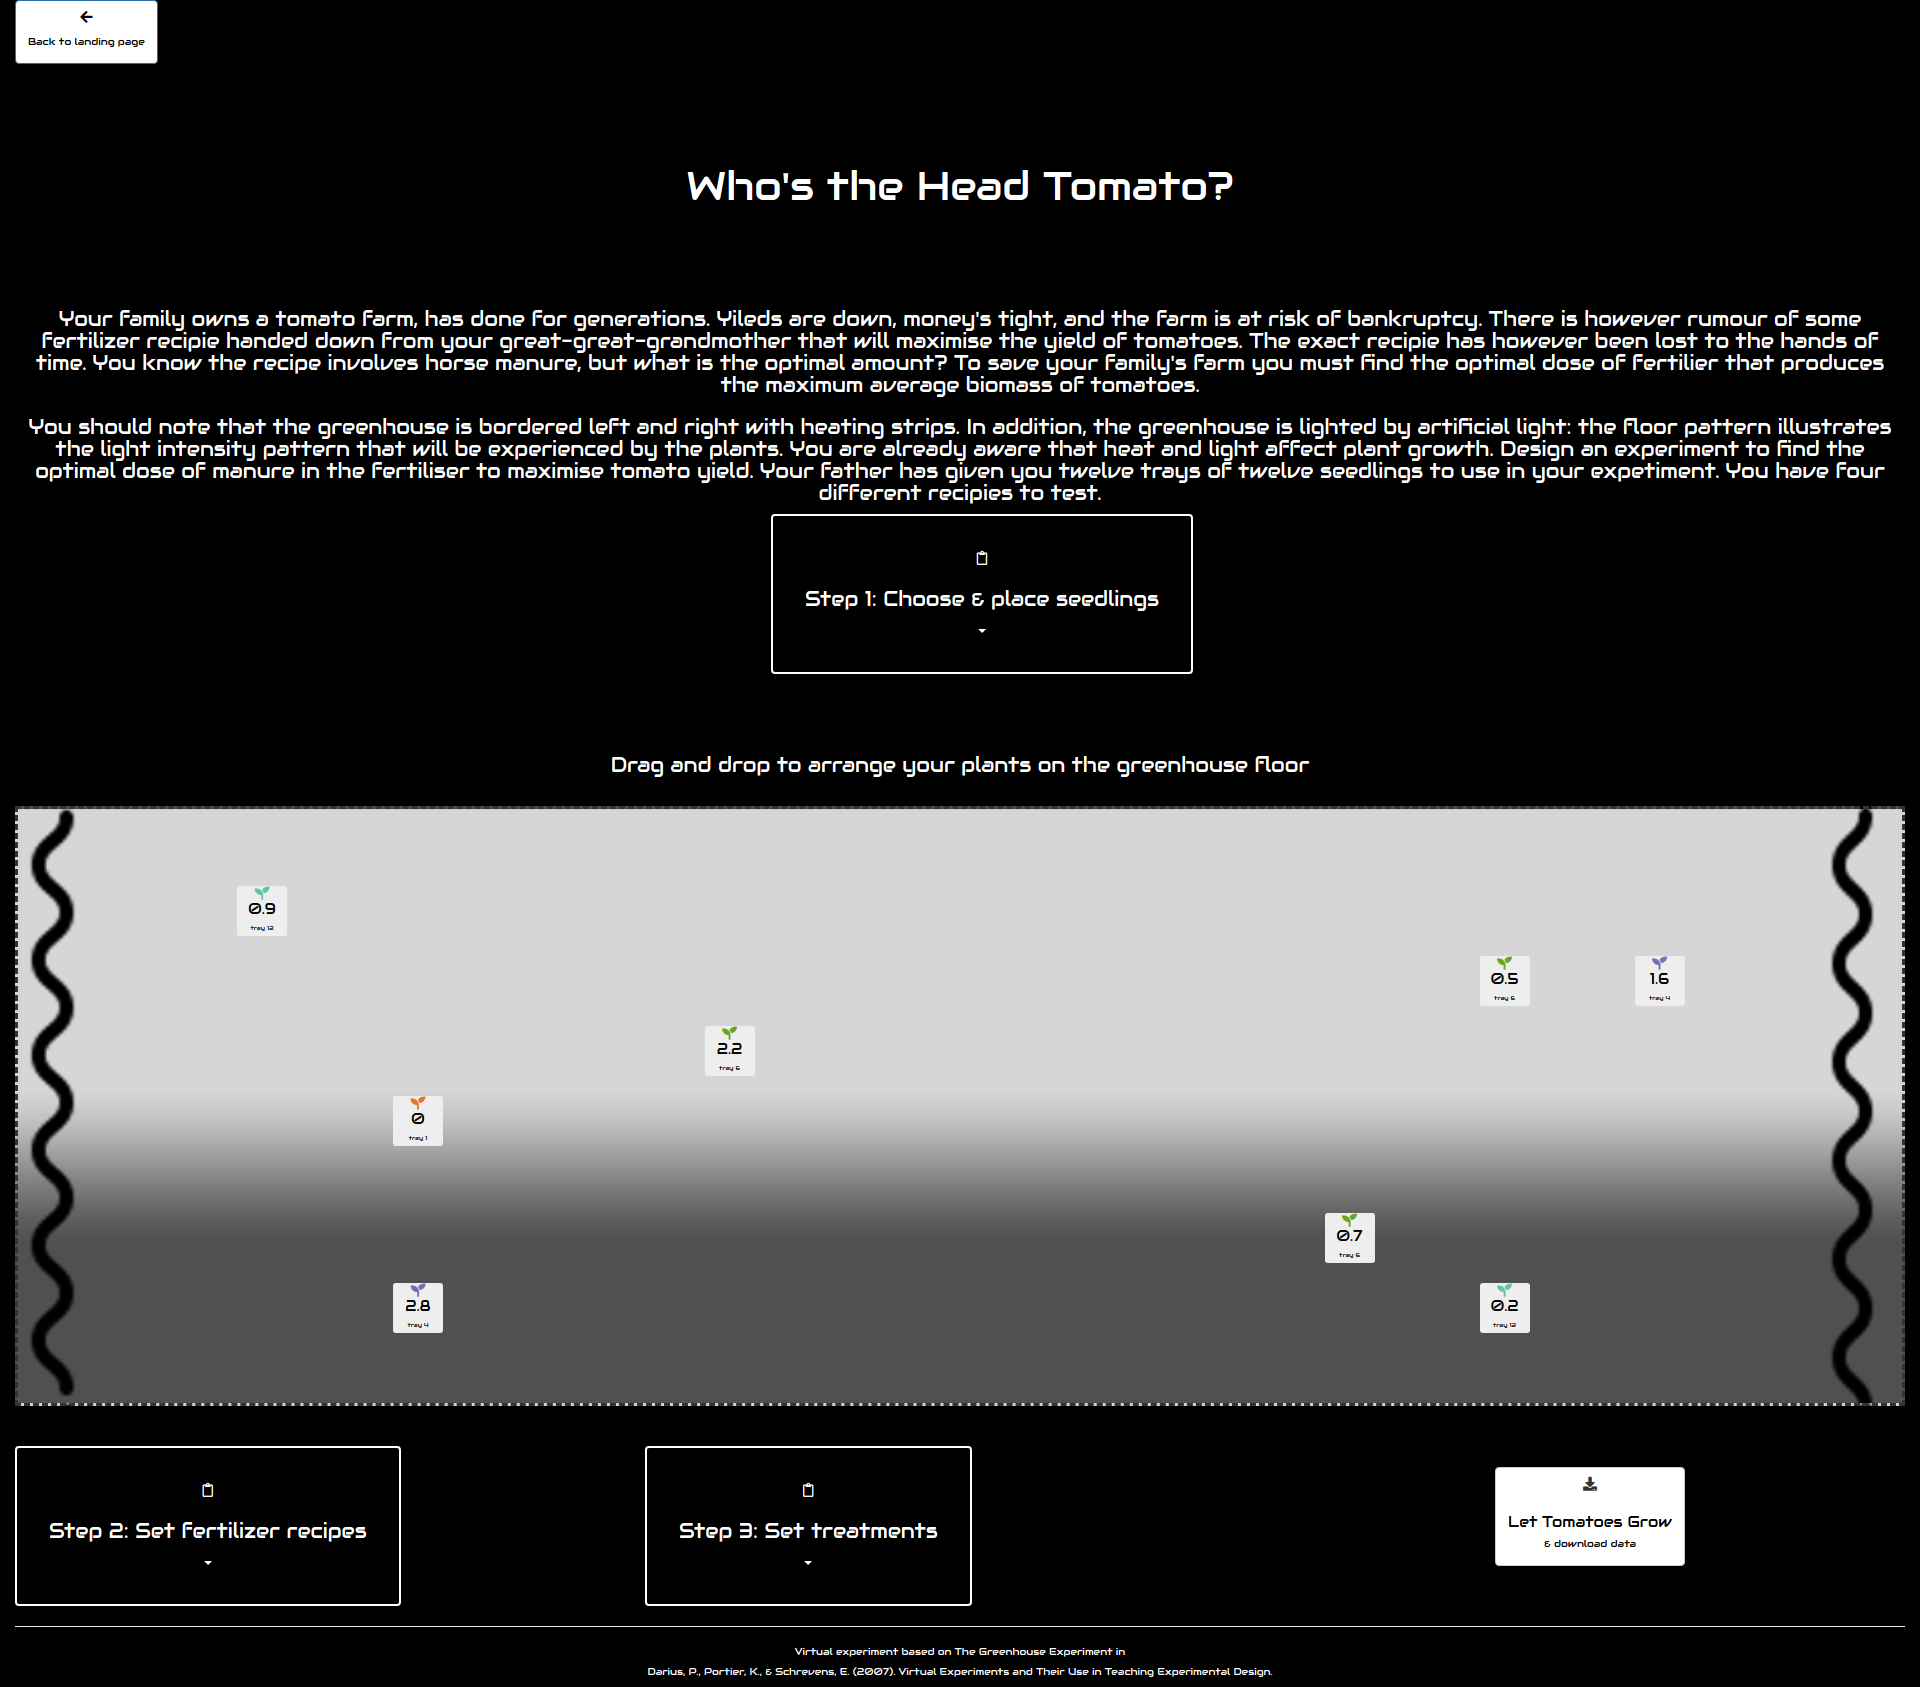
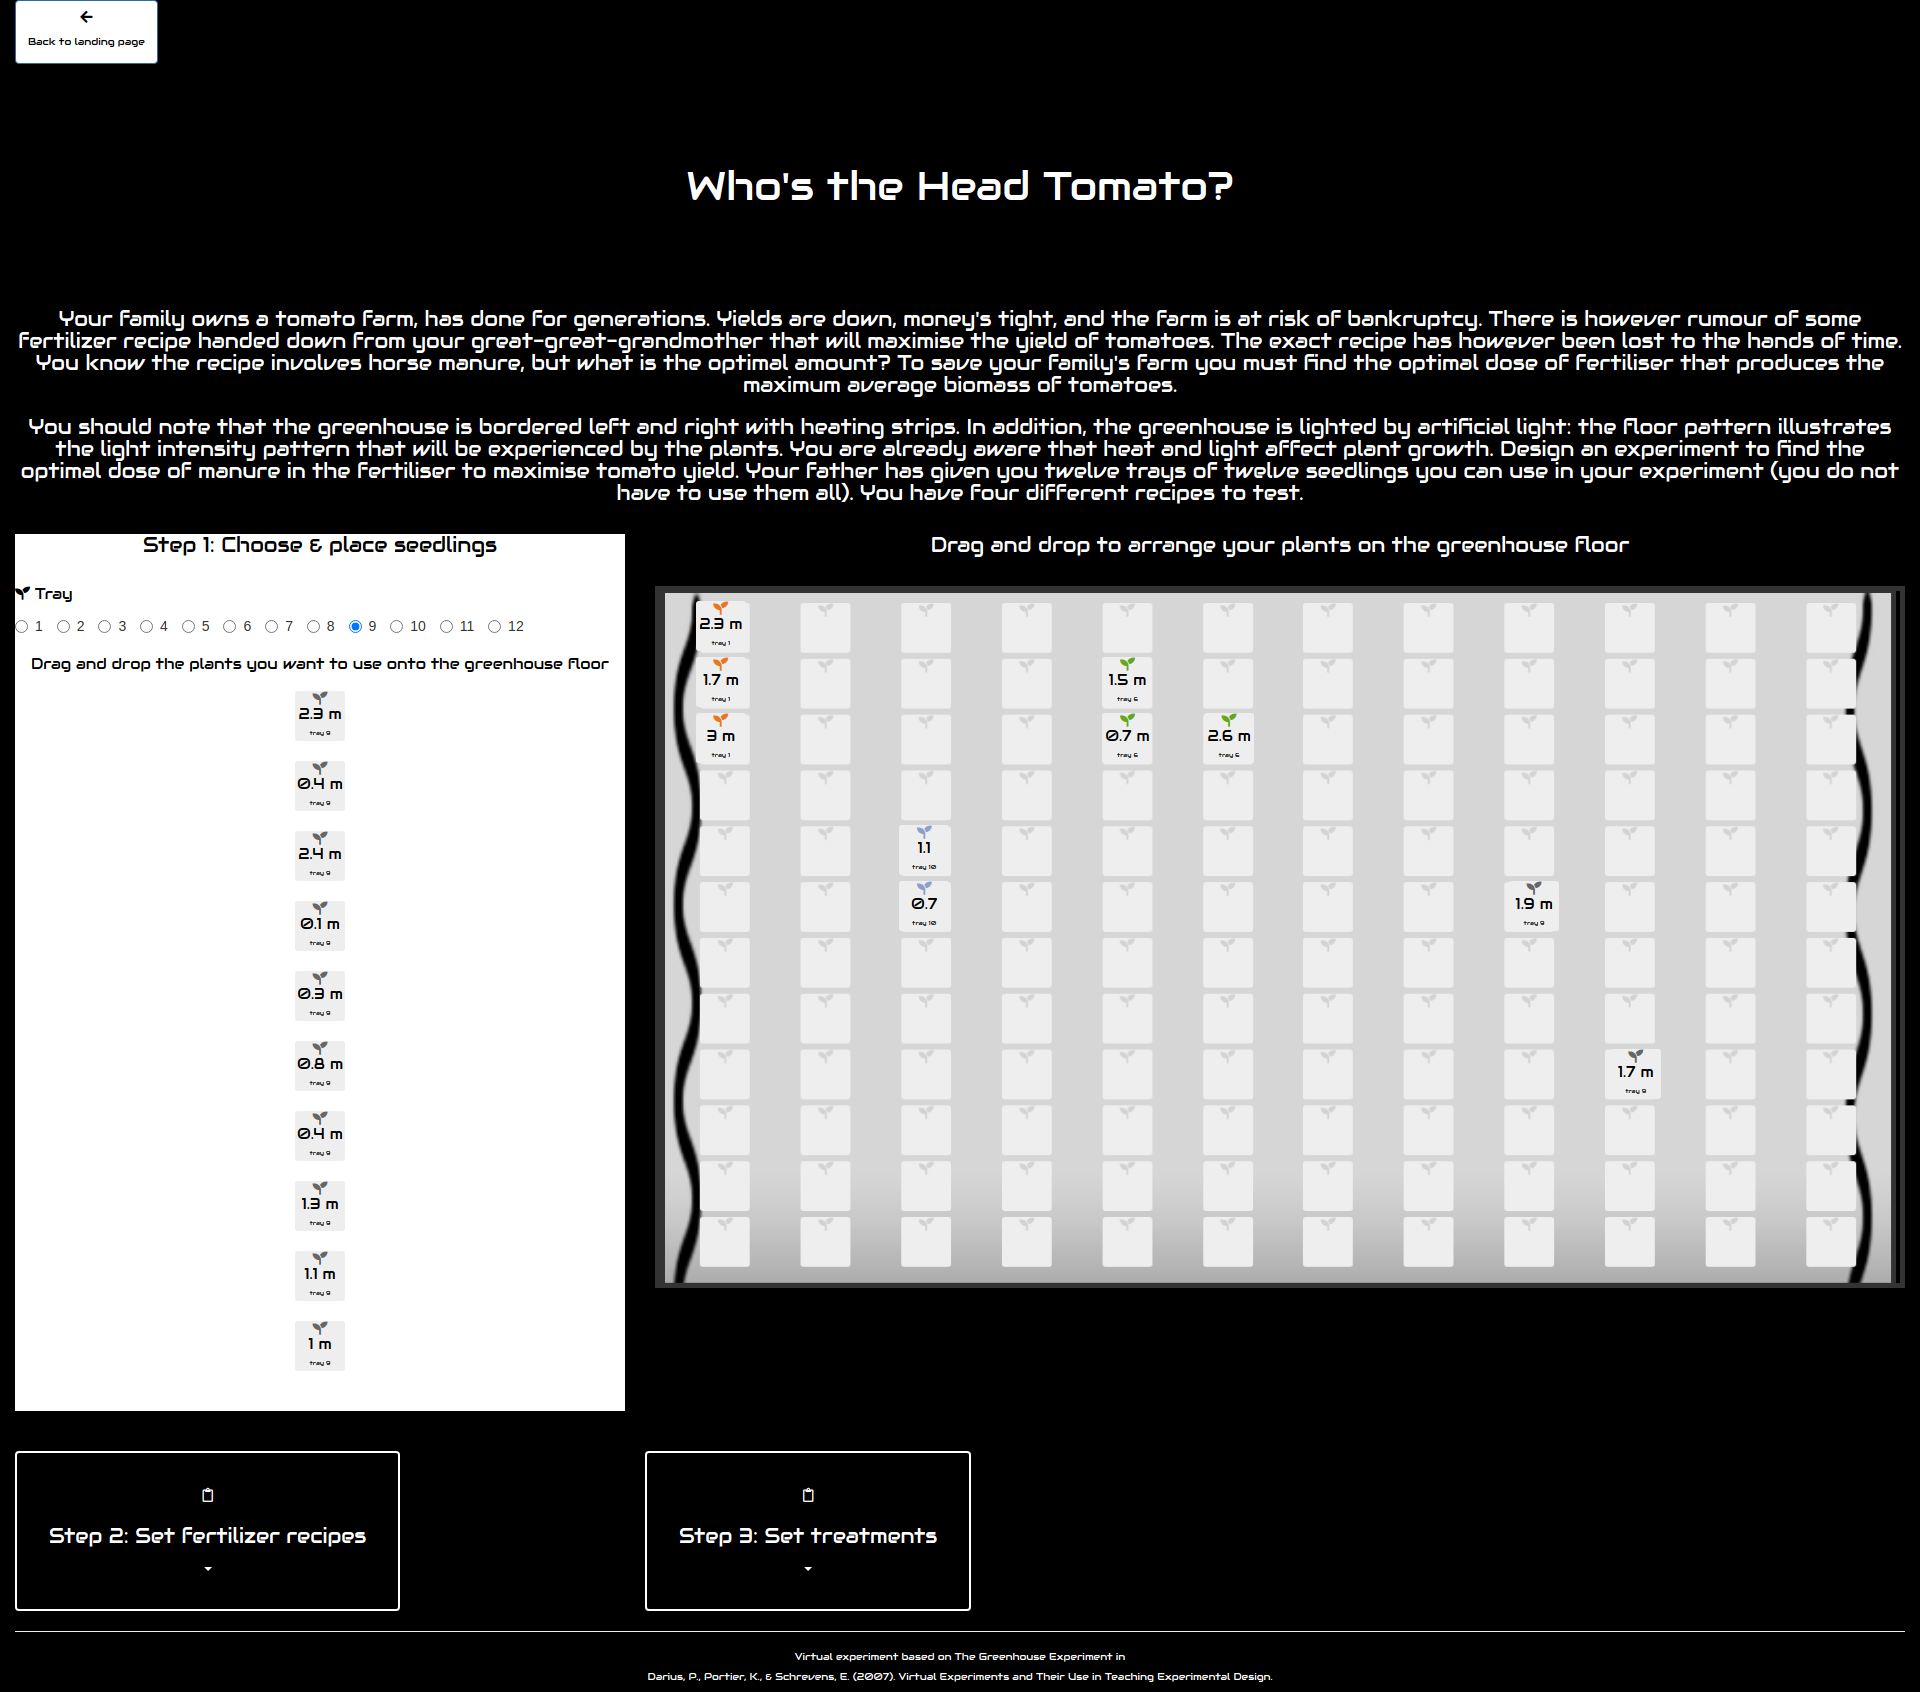
updates pre workshop

diff --git a/www/style.css b/www/style.css
@@ -48,6 +48,14 @@ h4.foot {
     font-size: 10px;
     text-align: center;
 }
+h2.pump_h2{
+    font-family: 'Audiowide', cursive;
+    font-weight: 500;
+    line-height: 1.1;
+    color: black;
+    font-size: 20px;
+    text-align: center;
+}
 a {
     color: white;
 }
@@ -127,10 +135,11 @@ div.mid {
 }
 
 .info {
-    display: block;
-    margin-left: 50%;
-    margin-right: 50%;
-    width: 20%;
+    /* display: block; */
+    /* margin-left: 50%; */
+    /* margin-right: 50%; */
+    /* width: 50%;  */
+    background-color: white;
 }
 .shiny-radiomatrix{
     padding: 10px;
@@ -155,14 +164,15 @@ div.mid {
 /* pumpkin plots */
 .pump_wrapper {
     display: grid;
-    grid-template-columns: 16% 16% 16% 16% 16% 16%;
-    grid-template-rows: 40%;
-    grid-gap: 125px 2px;
+    grid-template-columns: 20% 20%;
+    grid-template-rows: auto;
+    grid-gap: 15px;
     justify-content: space-evenly;
     border: 10px solid white;
 }
 .bg-wrap {
-    background: url(img/tiles.png);           
+    background: url(img/tiles.png);
+    width: 100%;
 }
 .box {
     background: url(img/soil.png);
@@ -170,6 +180,7 @@ div.mid {
     border-radius: 5px;
     padding: 10px;
     height: 275px;
+    width: 275px;
 }
 /* pumpkin grow gif */
 img.grow {
@@ -229,10 +240,9 @@ img.grow {
 }
 /* tomato (greenhouse) plots */
 .info-tom-1 {
+    background: white;
     display: block;
-    margin-left: 40%;
-    margin-right: 40%;
-    width: 50%;
+    width: 100%;
 }
 .info-tom {
     display: flex;
@@ -240,19 +250,15 @@ img.grow {
 .info-tom > div {
   flex: 1; 
 }
-.bgtom-wrap {
-    background-color: lightgrey;  
-    height: auto;
-    min-height: 600px;
-    
+.tomato-bck {
+    background: black;
+    width: 100%;
 }
 #greenhouse {
     background: url(img/gradient.png);
-    background-size: 100% 100%;
-    display: block;
+    background-size: 100%;
+    height: 100%;
     width: 100%;
-    height: auto;
-    min-height: 600px;
 }
 
 #greenhouse h3 {
